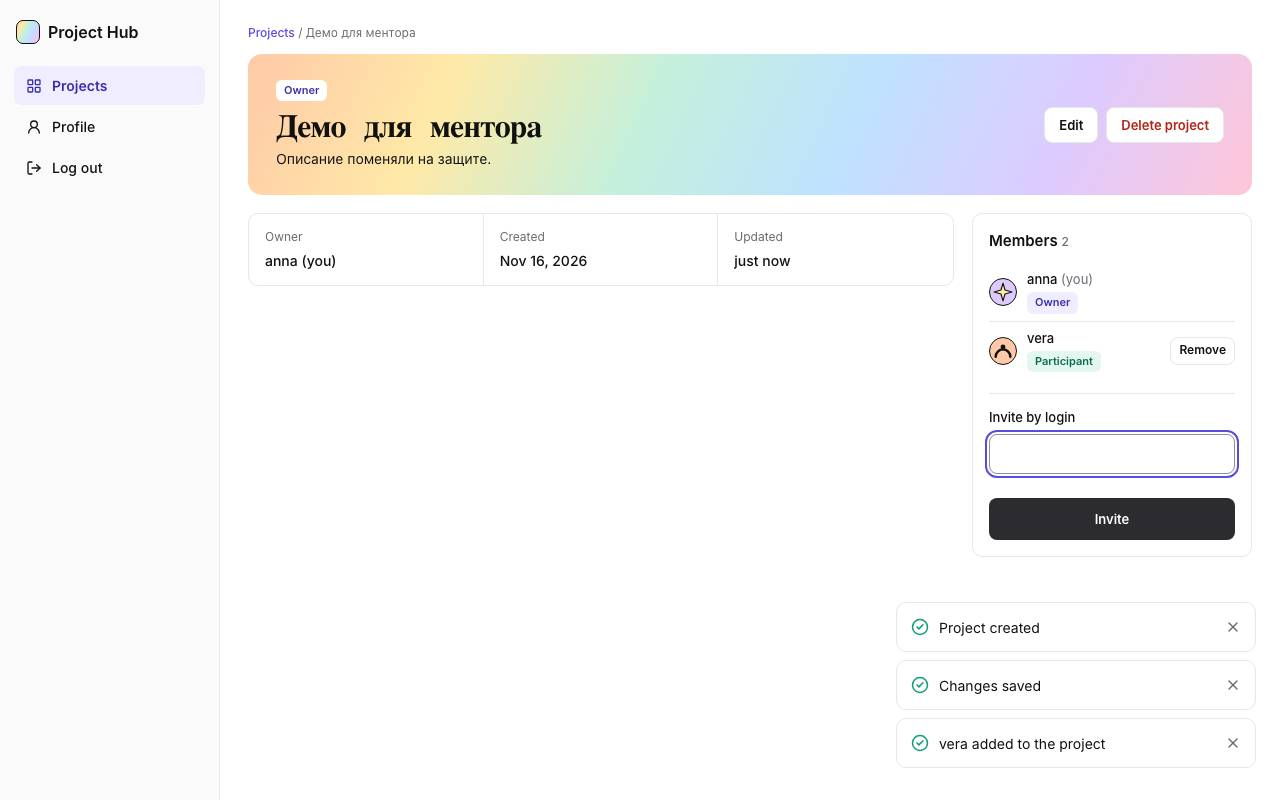
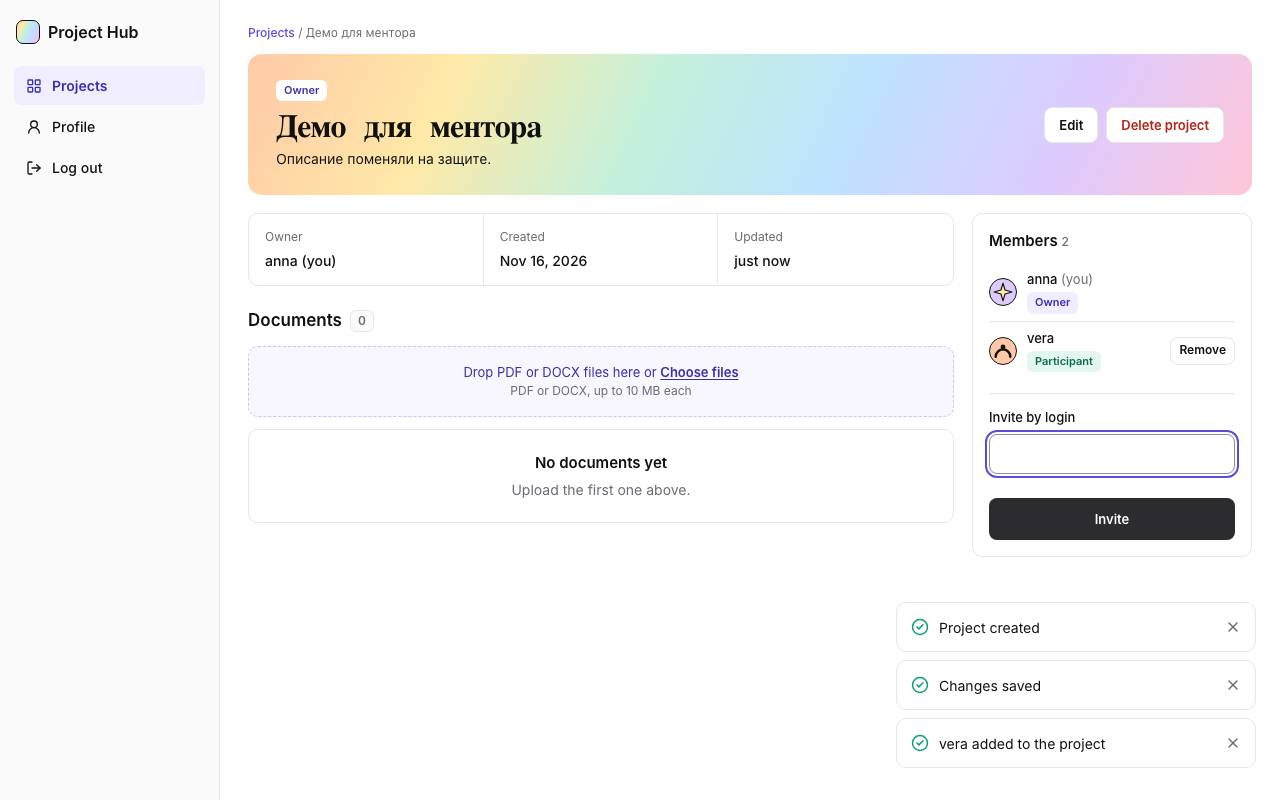
Show uploading, replacing and deleting documents in the demo
F4 is in main: demo.md gets the documents step, walk.mjs uploads,
rejects a fake pdf, downloads, replaces and deletes, then cleans up.

Changed region(s): [[0.375, 0.4375, 0.5625, 0.5], [0.4062, 0.5625, 0.5312, 0.625], [0.1875, 0.375, 0.2812, 0.4062]]

diff --git a/docs/frontend/demo.md b/docs/frontend/demo.md
@@ -110,7 +110,7 @@ docker compose -p demo -f docker-compose.yml -f frontend/compose.yml down -v
 Скриншоты: [все](demo/03-projects-all.jpeg), [мои](demo/04-projects-owned.jpeg), [доступные мне](demo/05-projects-shared.jpeg).
 
 - **Кликнуть:** вкладки All → Owned → Shared with me.
-- **Сказать:** «Это `GET /projects?role=owner|participant`. Роль считает сервер, у каждого проекта видно, кто я в нём: Owner или Participant. Список идёт страницами (`limit`/`offset`)».
+- **Сказать:** «Это `GET /projects?role=owner|participant`. В колонке Documents — сколько файлов в проекте. Роль считает сервер, у каждого проекта видно, кто я в нём: Owner или Participant. Список идёт страницами (`limit`/`offset`)».
 - **Где в коде:** `src/project_hub/projects/router.py`, `src/project_hub/projects/repository_orm.py` и `repository_sql.py`; в вебе `frontend/src/projects/ProjectsPage.tsx`.
 - **Почему так:**
   - Вкладка — это часть адреса (`?role=owner`). Можно обновить страницу или дать ссылку — откроется та же вкладка.
@@ -127,7 +127,7 @@ docker compose -p demo -f docker-compose.yml -f frontend/compose.yml down -v
 
 ### 1.4 Страница проекта
 
-Скриншот: [страница владельца](demo/15-owner-project-members.jpeg), [страница участника](demo/16-participant-project.jpeg).
+Скриншот: [страница владельца](demo/15-owner-project-members.jpeg), [страница участника](demo/21-participant-project.jpeg).
 
 - **Кликнуть:** «Projects» → «Дипломный проект». Потом «Поездка в Карпаты».
 - **Сказать:** «Владелец видит Edit и Delete project и может приглашать. Участник видит только Leave project. Кнопки — это удобство; настоящая проверка прав на сервере».
@@ -136,7 +136,7 @@ docker compose -p demo -f docker-compose.yml -f frontend/compose.yml down -v
 
 ### 1.5 Участники: пригласить, удалить, выйти
 
-Скриншоты: [нет такого логина](demo/09-invite-unknown-login.jpeg), [vera добавлена](demo/10-invite-vera.jpeg), [удалить vera?](demo/11-remove-vera-dialog.jpeg), [удалена](demo/12-vera-removed.jpeg), [выйти?](demo/17-leave-dialog.jpeg), [после выхода](demo/18-after-leave.jpeg).
+Скриншоты: [нет такого логина](demo/09-invite-unknown-login.jpeg), [vera добавлена](demo/10-invite-vera.jpeg), [удалить vera?](demo/11-remove-vera-dialog.jpeg), [удалена](demo/12-vera-removed.jpeg), [выйти?](demo/22-leave-dialog.jpeg), [после выхода](demo/23-after-leave.jpeg).
 
 - **Кликнуть:** в «Демо для ментора» в поле «Invite by login» ввести `nobody` → «Invite» → «No user with that login». Ввести `vera` → «Invite». Потом «Remove» у vera → подтвердить.
 - **Выйти из проекта:** открыть «Поездка в Карпаты» (там anna участник) → «Leave project» → подтвердить. Проект пропал из списка.
@@ -147,9 +147,22 @@ docker compose -p demo -f docker-compose.yml -f frontend/compose.yml down -v
 
 ### 1.6 Документы
 
-**Ожидает F4.** Веб-часть документов (F4) ещё не в `main`. Когда её сольют, здесь будет: загрузить, скачать, заменить, удалить.
+Скриншоты: [загружен](demo/16-documents-uploaded.jpeg), [поддельный pdf отклонён](demo/17-documents-fake-rejected.jpeg), [заменён](demo/18-documents-replaced.jpeg), [удалить?](demo/19-documents-delete-dialog.jpeg), [удалён](demo/20-documents-deleted.jpeg).
 
-Если F4 не успеет — документы показать в Swagger (раздел 2.4): API для них уже есть в `main`.
+- **Кликнуть:** в «Дипломный проект» блок «Documents», там уже `thesis-plan.pdf` и `requirements.docx`.
+  1. «Choose files» → `docs/frontend/demo/files/meeting-notes.pdf` → «File uploaded», файл в списке. Можно и просто перетащить файл в рамку.
+  2. «Download» у `meeting-notes.pdf` → файл скачается под своим именем.
+  3. «Replace» у `meeting-notes.pdf` → выбрать `meeting-notes-v2.pdf` → «File replaced». Имя в списке поменялось на новое.
+  4. «Delete» у `meeting-notes-v2.pdf` → подтвердить → «Document deleted».
+  5. По желанию: переименовать любой текстовый файл в `fake.pdf` и загрузить → «content is not a valid pdf».
+- **Сказать:** «Загрузить — `POST /project/{id}/documents` (можно сразу несколько файлов), список — `GET /project/{id}/documents`, скачать — `GET /document/{id}`, заменить — `PUT /document/{id}`, удалить — `DELETE /document/{id}`. Сами файлы лежат в S3, в базе только запись о них: имя, тип, размер, кто загрузил».
+- **Кто может:** любой участник проекта, не только владелец: загружать, скачивать, заменять, удалять. Посторонний получит 404.
+- **Где в коде:** бэкенд `src/project_hub/documents/router.py`, `service.py`, `validation.py`, хранилище `src/project_hub/storage/s3.py`. Веб `frontend/src/documents/DocumentsSection.tsx`, `UploadZone.tsx`, `DocumentActions.tsx`.
+- **Почему так:**
+  - Тип файла проверяется по содержимому, а не по расширению (подробнее в 2.4). Поэтому `fake.pdf` не прошёл.
+  - Веб заранее проверяет расширение и размер (`frontend/src/documents/fileRules.ts`), чтобы не отправлять зря файл больше 10 МБ. Содержимое проверяет только сервер, и решает всегда он.
+  - Файл качается через API с токеном, а не по прямой ссылке на S3: так чужой не скачает файл, даже если узнает его адрес.
+- Если зелёные уведомления справа закрыли кнопку «Delete» — подождать 5 секунд или закрыть их крестиком.
 
 ### 1.7 Удалить проект
 
@@ -162,7 +175,7 @@ docker compose -p demo -f docker-compose.yml -f frontend/compose.yml down -v
 
 ### 1.8 Профиль и смена пароля
 
-Скриншоты: [неверный текущий](demo/19-password-wrong-current.jpeg), [пароль сменён](demo/20-password-changed.jpeg).
+Скриншоты: [неверный текущий](demo/24-password-wrong-current.jpeg), [пароль сменён](demo/25-password-changed.jpeg).
 
 - **Кликнуть:** «Profile» → ввести неверный текущий пароль → ошибка. Потом верный: текущий `anna1234`, новый — любой от 8 символов → «Change password».
 - **Сказать:** «`PUT /users/me/password`. После смены все старые токены перестают работать — на других устройствах тебя выкинет. Эта вкладка получает новый токен и остаётся в системе».
@@ -172,7 +185,7 @@ docker compose -p demo -f docker-compose.yml -f frontend/compose.yml down -v
 
 ### 1.9 Выход и истёкшая сессия
 
-Скриншоты: [вышла](demo/21-logged-out.jpeg), [сессия истекла](demo/22-session-expired.jpeg).
+Скриншоты: [вышла](demo/26-logged-out.jpeg), [сессия истекла](demo/27-session-expired.jpeg).
 
 - **Кликнуть:** «Log out» → страница входа «You are logged out».
 - **Как показать истёкшую сессию:** войти, открыть инструменты разработчика (F12) → Application → Session Storage → поменять значение `project-hub.token` на любую строку → кликнуть «Profile». Приложение покажет «Your session expired. Log in again.»
@@ -189,11 +202,11 @@ docker compose -p demo -f docker-compose.yml -f frontend/compose.yml down -v
 
 ## 2. Swagger
 
-Адрес: <http://127.0.0.1:8020/docs>. Скриншот: [общий вид](demo/23-swagger-overview.jpeg).
+Адрес: <http://127.0.0.1:8020/docs>. Скриншот: [общий вид](demo/28-swagger-overview.jpeg).
 
 ### 2.1 Получить токен и нажать Authorize
 
-Скриншоты: [вход](demo/24-swagger-login-token.jpeg), [Authorize](demo/25-swagger-authorize.jpeg), [GET /users/me](demo/26-swagger-users-me-200.jpeg).
+Скриншоты: [вход](demo/29-swagger-login-token.jpeg), [Authorize](demo/30-swagger-authorize.jpeg), [GET /users/me](demo/31-swagger-users-me-200.jpeg).
 
 1. Раскрыть `POST /login` → «Try it out» → в теле `{"login": "anna", "password": "anna1234"}` → «Execute».
 2. Скопировать `access_token` из ответа (без кавычек).
@@ -246,7 +259,7 @@ docker compose -p demo -f docker-compose.yml -f frontend/compose.yml down -v
 | Стенд не отвечает | `docker compose -p demo -f docker-compose.yml -f frontend/compose.yml ps` — все ли `healthy`. Логи API: `docker compose -p demo -f docker-compose.yml -f frontend/compose.yml logs api --tail 50`. Если Docker Desktop не запущен — запустить его и выполнить «Запуск». |
 | Данные перепутались, удалила не то | Полный сброс: `down -v`, «Запуск», «Заполнить» (раздел 0). Около 3 минут. |
 | Веб пишет «Your session expired» | Нормально после перезапуска стенда или через час. Войти заново. |
-| Swagger пустой (белая страница) | Нет интернета: Swagger грузит скрипты с CDN. Показать скриншоты 23–26 из `docs/frontend/demo/` или `curl` из таблицы 2.3. |
+| Swagger пустой (белая страница) | Нет интернета: Swagger грузит скрипты с CDN. Показать скриншоты 28–31 из `docs/frontend/demo/` или `curl` из таблицы 2.3. |
 | Документ не скачивается после перезапуска | Файлы в moto пропали при остановке. Полный сброс. |
 
 ---
